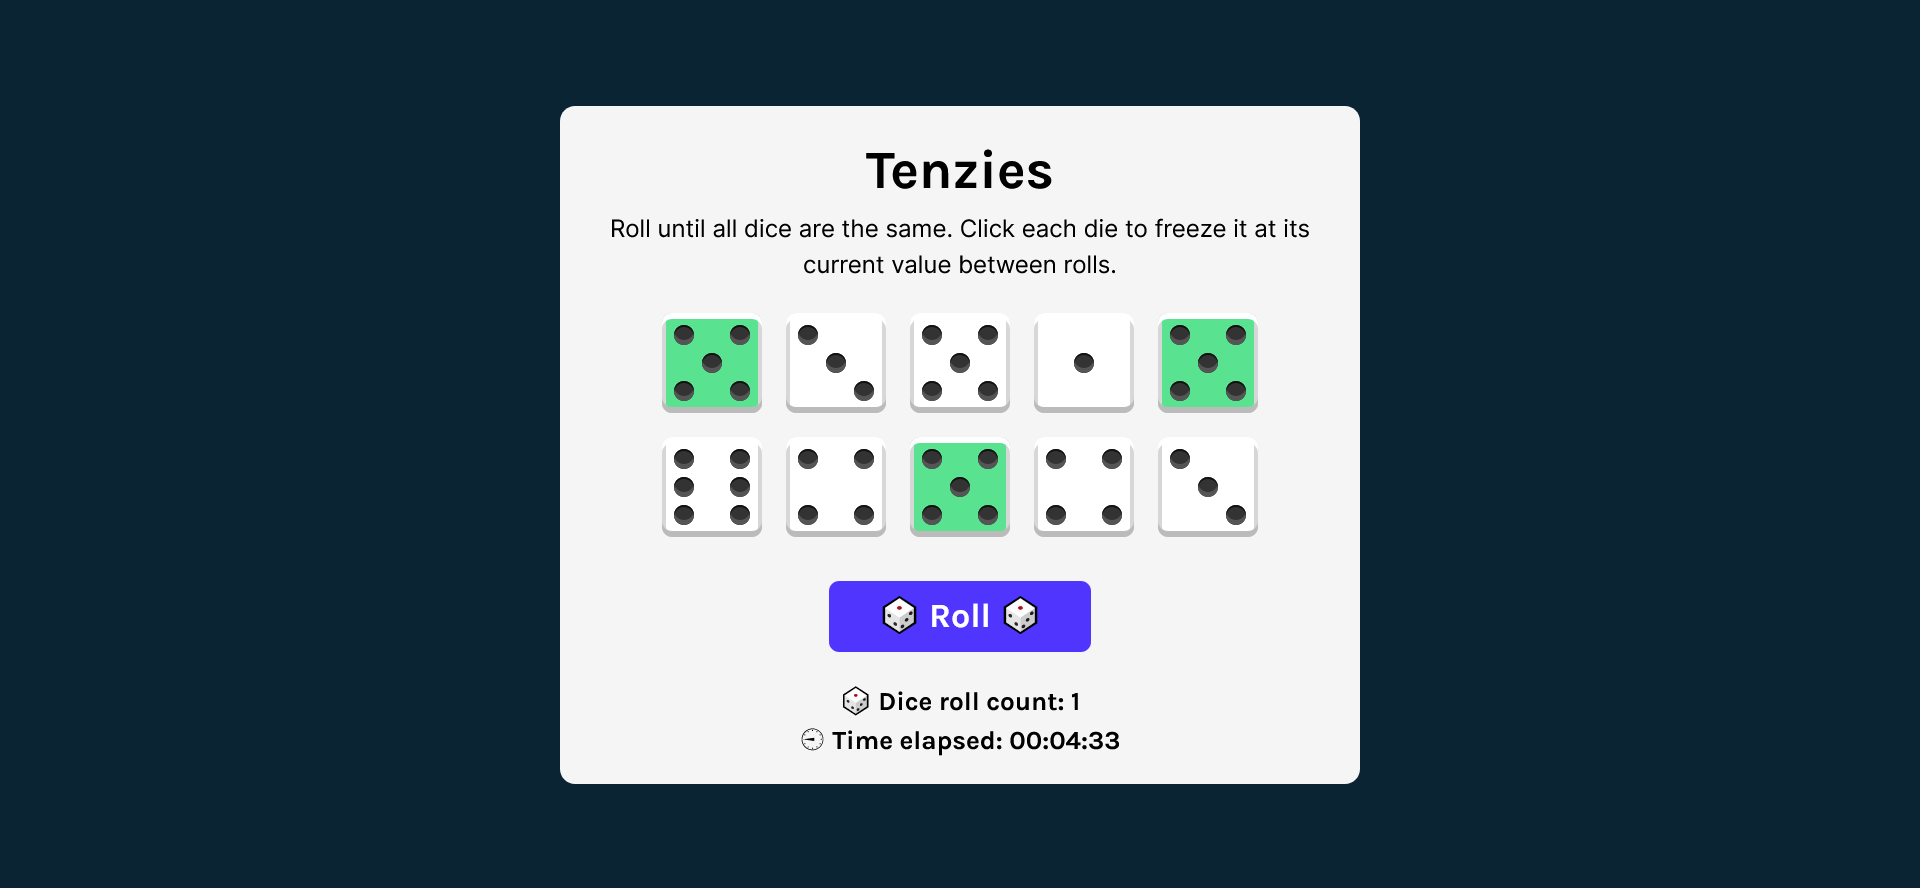
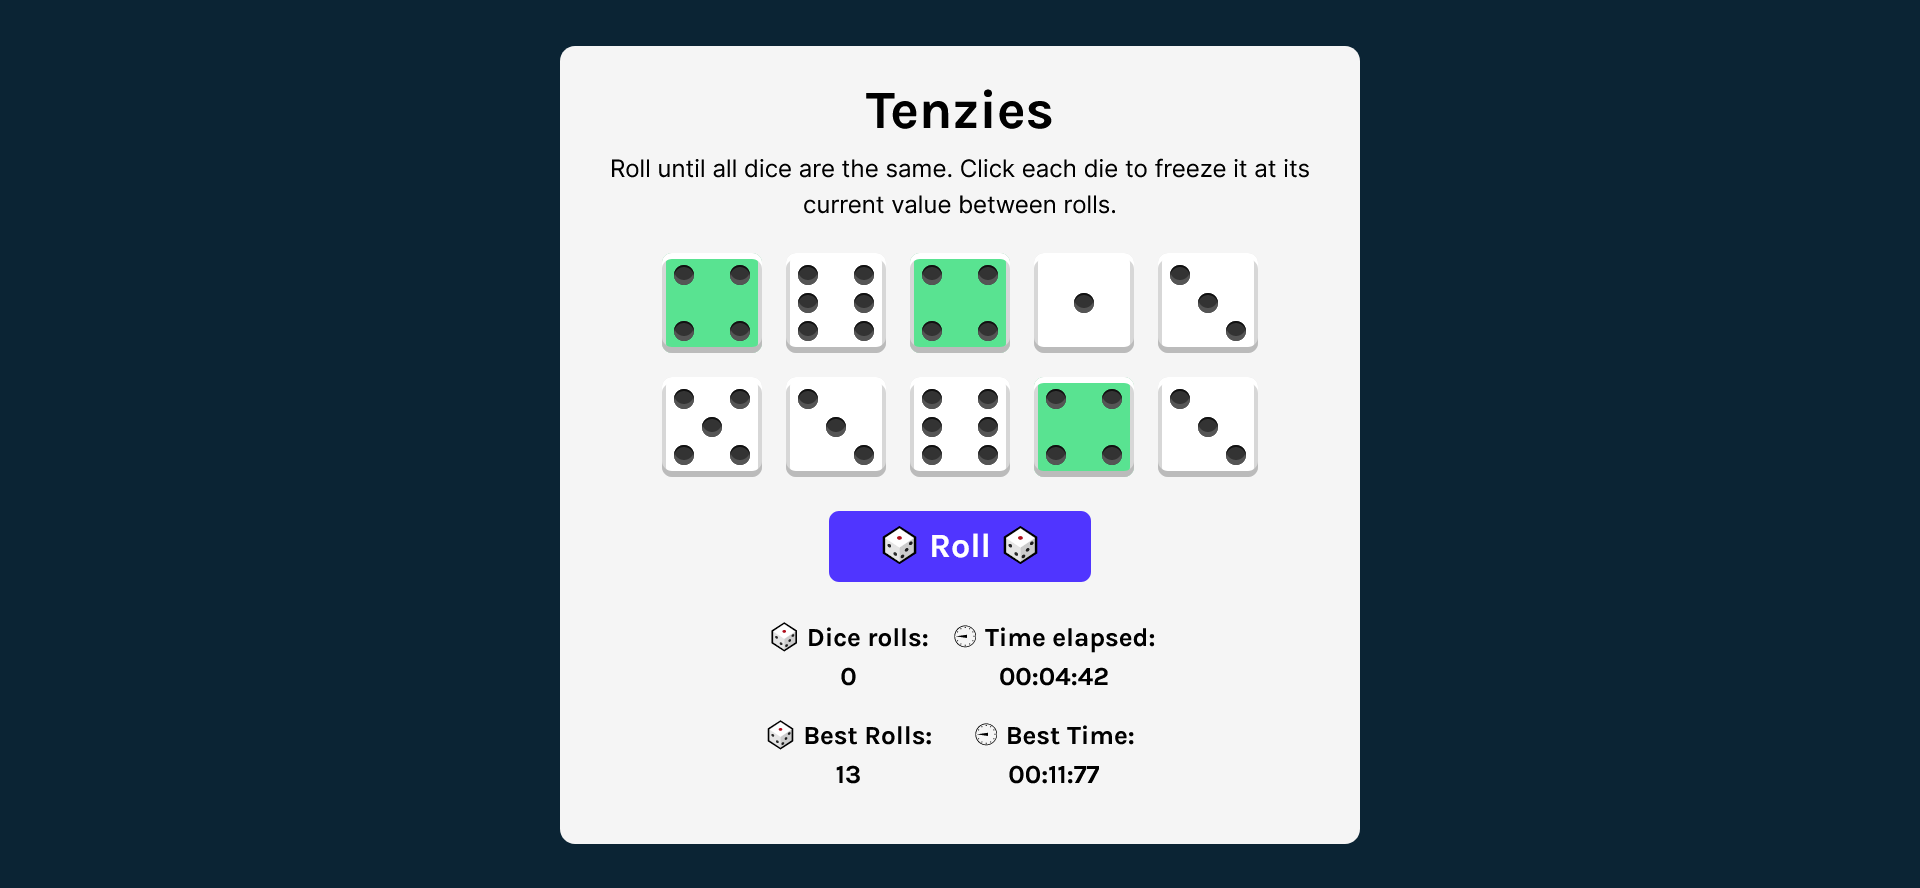
Added best rolls and best time records

Changed region(s): [[0.2812, 0.0304, 0.7188, 0.973]]

diff --git a/src/App.jsx b/src/App.jsx
@@ -1,117 +1,146 @@
 import { useState, useEffect } from 'react'
 import './App.css'
-import Die from './Die'
+import Die from './components/Die'
+import GameStats from './components/GameStats'
 import { nanoid } from 'nanoid'
 import Confetti from "react-confetti"
 
 function App() {
-    const [dice, setDice] = useState(allNewDice());
-    const [tenzies, setTenzies] = useState(false);
-    const [rollCount, setRollCount] = useState(0);
-    const [time, setTime] = useState(0);
-    const [running, setRunning] = useState(false);
-    
-    useEffect(() => {
+	const [dice, setDice] = useState(allNewDice());
+	const [tenzies, setTenzies] = useState(false);
+	const [rollCount, setRollCount] = useState(0);
+	const [time, setTime] = useState(0);
+	const [running, setRunning] = useState(false);
+	const [bestRolls, setBestRolls] = useState(
+		JSON.parse(localStorage.getItem("bestRolls")) || 0
+	);
+	const [bestTime, setBestTime] = useState(
+		JSON.parse(localStorage.getItem("bestTime")) || 0
+	);
+
+	useEffect(() => {
         const allHeld = dice.every((die) => die.isHeld);
         const firstValue = dice[0].value;
         const allSameValue = dice.every((die) => die.value === firstValue);
         if (allHeld && allSameValue) {
-            setTenzies(true);
-            setRunning(false);
+			setTenzies(true);
+			setRunning(false);
+			setRecords();
         }
-    }, [dice]);
+	}, [dice]);
 
-    useEffect(() => {
+	useEffect(() => {
         let interval;
         if (running) {
-            interval = setInterval(() => {
-                setTime((prevTime) => prevTime + 10);
-            }, 10);
+			interval = setInterval(() => {
+				setTime((prevTime) => prevTime + 10);
+			}, 10);
         } else if (!running) {
-            clearInterval(interval);
+			clearInterval(interval);
         }
         return () => clearInterval(interval);
-    }, [running]);
+	}, [running]);
 
-    function generateNewDie() {
+	useEffect(() => {
+        localStorage.setItem("bestRolls", JSON.stringify(bestRolls));
+        }, [bestTime]);
+
+        useEffect(() => {
+        localStorage.setItem("bestTime", JSON.stringify(bestTime));
+        }, [bestTime]);
+
+        function generateNewDie() {
         return {
-            value: Math.ceil(Math.random() * 6),
-            isHeld: false,
-            id: nanoid()
+			value: Math.ceil(Math.random() * 6),
+			isHeld: false,
+			id: nanoid()
         };
-    }
-    
-    function allNewDice() {
+	}
+
+	function allNewDice() {
         const newDice = []
         for (let i = 0; i < 10; i++) {
             newDice.push(generateNewDie());
         }
         return newDice;
-    }
-    
-    function rollDice() {
+	}
+
+	function rollDice() {
         if(!tenzies) {
-            setRollCount((prevCount) => prevCount + 1);
-            setRunning(true);
+			setRollCount((prevCount) => prevCount + 1);
+			setRunning(true);
 
-            setDice((oldDice) => oldDice.map(die => {
-                return die.isHeld ? 
-                    die :
-                    generateNewDie();
-            }));
+			setDice((oldDice) => oldDice.map(die => {
+				return die.isHeld ? 
+					die :
+					generateNewDie();
+			}));
         } else {
-            setTenzies(false);
-            setDice(allNewDice());
-            setRollCount(0);
-            setRunning(false);
+			setTenzies(false);
+			setDice(allNewDice());
+			setRollCount(0);
+			setRunning(false);
         }
-    }
-    
-    function holdDice(id) {
-        setRunning(true);
-        
-        setDice((oldDice) => oldDice.map(die => {
-            return die.id === id ? 
-                {...die, isHeld: !die.isHeld} :
-                die;
-        }));
-    }
-    
-    const diceElements = dice.map(die => (
-        <Die 
-            key={die.id} 
-            value={die.value} 
-            isHeld={die.isHeld} 
-            holdDice={() => holdDice(die.id)}
-        />
-    ));
+	}
 
-    // Variables to break down time
-    const minutes = ("0" + Math.floor((time / 60000) % 60)).slice(-2);
-    const seconds = ("0" + Math.floor((time / 1000) % 60)).slice(-2);
-    const milliseconds = ("0" + ((time / 10) % 100)).slice(-2);
-    
-    return (
+	function holdDice(id) {
+        setRunning(true);
+
+        setDice((oldDice) => oldDice.map(die => {
+			return die.id === id ? 
+				{...die, isHeld: !die.isHeld} :
+				die;
+        }));
+	}
+
+	function setRecords() {
+        if (!bestRolls || rollCount < bestRolls) {
+                setBestRolls(rollCount);
+        }
+
+        if (!bestTime || time < bestTime) {
+			setBestTime(time);
+        }
+        }
+
+        const diceElements = dice.map(die => (
+        <Die 
+			key={die.id} 
+			value={die.value} 
+			isHeld={die.isHeld} 
+			holdDice={() => holdDice(die.id)}
+        />
+	));
+
+	return (
         <main>
-            {tenzies && <Confetti />}
-            <h1 className="title">Tenzies</h1>
-            <p className="instructions">Roll until all dice are the same. 
-            Click each die to freeze it at its current value between rolls.</p>
-            <div className="dice-container">
-                {diceElements}
-            </div>
-            <button 
-                className="roll-dice" 
-                onClick={rollDice}
-            >
-                {tenzies ? "🎲 New Game 🎲" : "🎲 Roll 🎲"}
-            </button>
-            <p className='game-stats'>🎲 Dice roll count: {rollCount}</p>
-            <p className='game-stats'>
-                ⏲ Time elapsed: {minutes}:{seconds}:{milliseconds}
-            </p>
+			{tenzies &&
+					<Confetti
+							width={window.innerWidth}
+							height={window.innerHeight}
+					/>}
+
+			<h1 className="title">Tenzies</h1>
+			<p className="instructions">Roll until all dice are the same. 
+			Click each die to freeze it at its current value between rolls.</p>
+
+			<div className="dice-container">
+				{diceElements}
+			</div>
+
+			{tenzies && <h2 className='congrats-msg'>🎉 You Win! 🎉</h2>}
+			<button className="roll-dice" onClick={rollDice}>
+				{tenzies ? "🎲 New Game 🎲" : "🎲 Roll 🎲"}
+			</button>
+                
+			<GameStats
+				time={time}
+				bestTime={bestTime}
+				rolls={rollCount}
+				bestRolls={bestRolls}
+			/>
         </main>
-    )
+	)
 }
 
 export default App

diff --git a/src/App.css b/src/App.css
@@ -43,6 +43,11 @@ main {
     font-size: 1.2rem;
 }
 
+.congrats-msg {
+    padding-bottom: 0.4rem;
+    font-size: 2rem;
+}
+
 .dice-container {
     display: grid;
     grid-template: repeat(5, 1fr) / auto auto;
@@ -86,51 +91,51 @@ main {
     justify-content: center;
     align-items: center;
 }
-  
+
 .second-face {
     display: flex;
     justify-content: space-between;
 }
-  
+
 .second-face .pip:nth-of-type(2) {
     align-self: flex-end;
 }
-  
+
 .third-face {
     display: flex;
     justify-content: space-between;
 }
-    
+
 .third-face .pip:nth-of-type(2) {
     align-self: center;
 }
-  
+
 .third-face .pip:nth-of-type(3) {
     align-self: flex-end;
 }
-  
+
 .fourth-face, .sixth-face {
     display: flex;
     justify-content: space-between;
 }
-  
+
 .fourth-face .column, .sixth-face .column {
     display: flex;
     flex-direction: column;
     justify-content: space-between;
 }
-  
+
 .fifth-face {
     display: flex;
     justify-content: space-between;
 }
-    
+
 .fifth-face .column {
     display: flex;
     flex-direction: column;
     justify-content: space-between;
 }
-    
+
 .fifth-face .column:nth-of-type(2) {
     justify-content: center;
 }
@@ -145,7 +150,7 @@ main {
     font-size: 1.7rem;
     font-family: 'Karla', sans-serif;
     cursor: pointer;
-    margin: 1rem 0 1.5rem 0;
+    margin: 0.5rem 0;
 }
 
 .roll-dice:focus {
@@ -157,7 +162,13 @@ main {
 }
 
 .game-stats {
+    list-style: none;
+    padding: 0;
     font-size: 1.3rem;
+    display: grid;
+    grid-template: auto auto / auto auto;
+    gap: 1rem;
+    text-align: center;
 }
 
 /* Screen sizes larger than mobile */

diff --git a/src/components/GameStats.jsx b/src/components/GameStats.jsx
@@ -1,0 +1,34 @@
+import React from 'react'
+
+export default function GameStats(props) {
+    // Time variables for current time
+    const minutes = ("0" + Math.floor((props.time / 60000) % 60)).slice(-2);
+    const seconds = ("0" + Math.floor((props.time / 1000) % 60)).slice(-2);
+    const milliseconds = ("0" + ((props.time / 10) % 100)).slice(-2);
+
+    // Time variables for the best props.time
+    const bestMinutes = ("0" + Math.floor((props.bestTime / 60000) % 60)).slice(-2);
+    const bestSeconds = ("0" + Math.floor((props.bestTime / 1000) % 60)).slice(-2);
+    const bestMilliseconds = ("0" + ((props.bestTime / 10) % 100)).slice(-2);
+
+    return (
+        <ul className='game-stats'>
+            <li>
+                <p>🎲 Dice rolls:</p>
+                <span>{props.rolls}</span>
+            </li>
+            <li>
+                <p>⏲ Time elapsed:</p>
+                <span>{minutes}:{seconds}:{milliseconds}</span>
+            </li>
+            <li>
+                <p>🎲 Best Rolls:</p>
+                <span>{props.bestRolls}</span>
+            </li>
+            <li>
+                <p>⏲ Best Time:</p>
+                <span>{bestMinutes}:{bestSeconds}:{bestMilliseconds}</span>
+            </li>
+        </ul>
+    )
+}

diff --git a/README.md b/README.md
@@ -1,6 +1,7 @@
 # Tenzies Game
 
 ![](./screenshot.png)
+![](./screenshot-win.png)
 
 Roll until all dice are the same.
 
@@ -16,7 +17,8 @@ Cased on the Tenzies game tutorial from Scrimba's [Learn React course](https://s
 - Using relative units in CSS
 - Making the app responsive to different screen sizes
 - Adding dice roll count
-- Added a timer to track the time it took to win
+- Recording the number of dice rolls and the time it took to win
+- Tracking the best records of dice rolls and time taken to win
 
 ## Credits:
 
